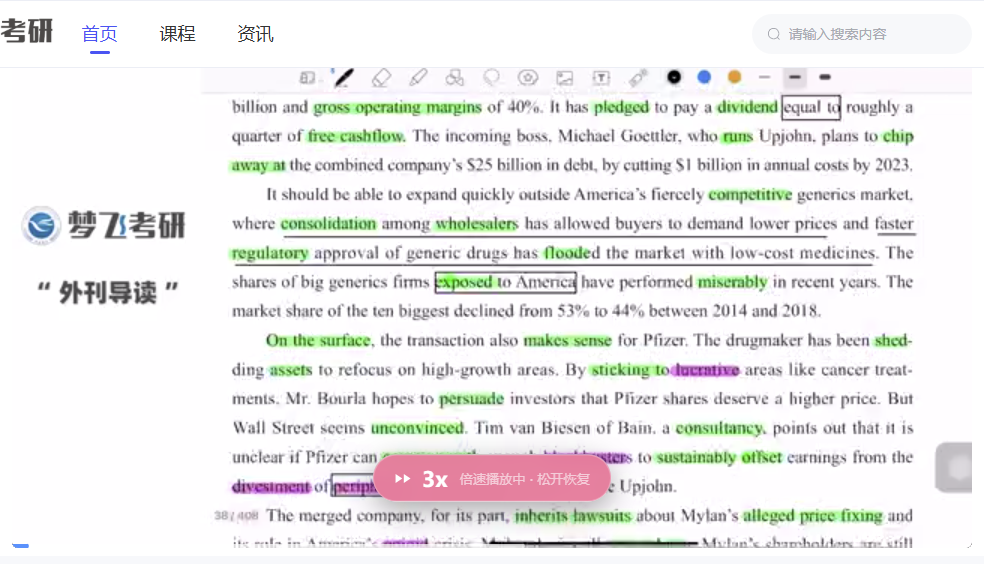
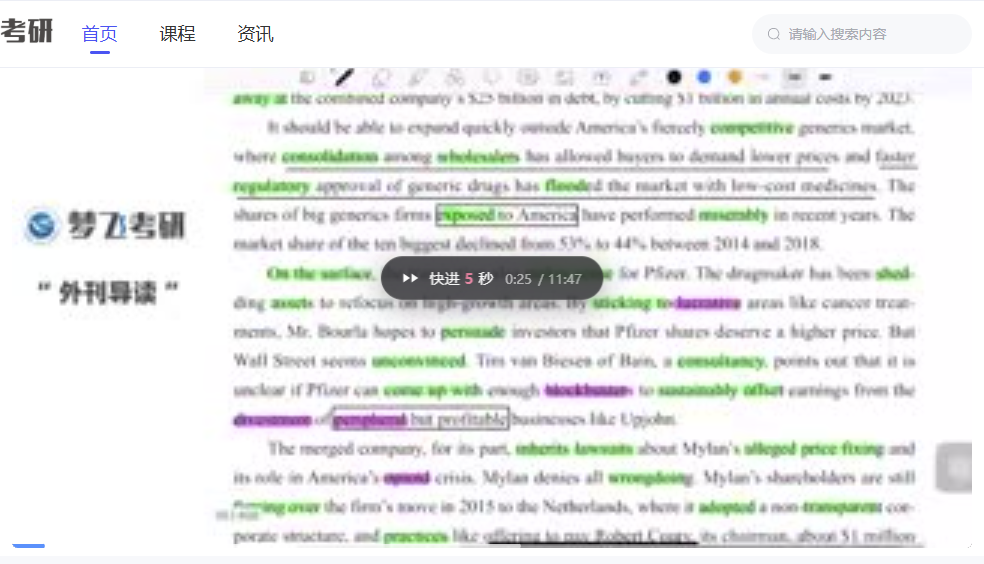
fix: 按住 → 只加速、不再先跳 5 秒（v1.1.1）
问题：按下 → 时立即 seek(+5)，超过长按阈值再进入 3x 倍速，
结果「按住 → 加速」变成了「先跳 5 秒再加速」，与预期不符。

改为短按 / 长按二选一：
- 按下先不跳转，只起一个「长按判定」定时器；
- 到点还没松手 → 长按：→ 进入倍速（全程不跳转），← 连续快退；
- 提前松手 → 短按：在松手那一刻跳 step 秒。

顺带：
- 长按状态显式记录 mode，避免松开时重复跳转
- 倍速记录“是哪个键开的”，倍速期间按另一个方向键会先停掉倍速，
  避免两个方向键抢状态把倍速卡在 3x
- 帮助面板文案改成「轻按：快退/快进 N 秒」「按住 → 3x 倍速快放（不跳转）」
- 测试新增「按住 → 不会先跳 5 秒」与「组合键打断倍速」断言；
  倍速幅度改为和同一时段的 1x 基线对比（避免解码器刚起播时喂帧不足导致的假失败）

diff --git a/ky-bilibili-player.user.js b/ky-bilibili-player.user.js
@@ -1,7 +1,7 @@
 // ==UserScript==
 // @name         研优课(ky.mfedu.cn) B站式播放控制
 // @namespace    https://github.com/ZhuYiXuanNB/bettermfclass
-// @version      1.1.0
+// @version      1.1.1
 // @description  给研优课的课程播放器加上 B 站风格的快捷键：← / → 快退快进、按住 → 倍速播放、↑ / ↓ 音量、空格播放暂停、F 全屏、W 网页全屏。已适配百家云(BPlayer/ffplayer 画布播放)与保利威。
 // @author       ZhuYiXuanNB
 // @match        https://ky.mfedu.cn/*
@@ -42,7 +42,7 @@
   if (window.__mfcPlayerHooked) return;
   window.__mfcPlayerHooked = true;
 
-  const VERSION = '1.1.0';
+  const VERSION = '1.1.1';
   const ACCENT = '#FB7299'; // B 站粉
 
   // ==========================================================================
@@ -748,13 +748,14 @@
   }
 
   // ---- 倍速快放（按住 →）-----------------------------------------------------
-  const boost = { active: false, p: null, rate: 1, baseRate: 1, timer: 0 };
+  const boost = { active: false, p: null, rate: 1, baseRate: 1, timer: 0, key: null };
 
-  function startBoost(p) {
+  function startBoost(p, key) {
     if (!p || boost.active) return;
     if (p.paused() || p.ended()) return;
     boost.active = true;
     boost.p = p;
+    boost.key = key || null;
     boost.rate = clamp(cfg.boostRate, 1.25, cfg.maxRate);
     boost.baseRate = p.rate() || 1;
     p.setRate(boost.rate);
@@ -781,6 +782,7 @@
     clearInterval(boost.timer);
     boost.timer = 0;
     boost.p = null;
+    boost.key = null;
     hideToast('boost');
     if (p) p.setRate(boost.baseRate || 1, { silent: true });
   }
@@ -841,7 +843,7 @@
   // ==========================================================================
   // 六、键盘
   // ==========================================================================
-  const hold = { key: null, timer: 0, repeat: 0 };
+  const hold = { key: null, timer: 0, repeat: 0, mode: null };
 
   // 这些键属于“快进 / 变速”，课程禁止时会被关掉
   const RESTRICTED_KEYS = { ArrowLeft: 1, ArrowRight: 1, Comma: 1, Period: 1 };
@@ -879,7 +881,35 @@
     hold.key = null;
     hold.timer = 0;
     hold.repeat = 0;
+    hold.mode = null;
     stopBoost();
+  }
+
+  /**
+   * 方向键的“短按 / 长按”判定：
+   *   按下时先不跳转，只起一个定时器；
+   *   到点还没松手 => 长按（→ 倍速、← 连续快退），全程不额外跳转；
+   *   提前松手     => 短按，在松手那一刻跳 step 秒。
+   * 这样“按住 → 只加速”才不会被开头那一下 +5 秒污染。
+   */
+  function beginHold(code) {
+    const p = getPlayer();
+    if (!p) return;
+    // 另一个方向键正在倍速 -> 先把它停掉，避免两个键抢状态把倍速卡住
+    if (boost.active) stopBoost();
+    hold.key = code;
+    hold.mode = null;
+    clearTimeout(hold.timer);
+    clearInterval(hold.repeat);
+    hold.timer = setTimeout(() => {
+      if (hold.key !== code) return;
+      const cur = getPlayer();
+      if (!cur) return;
+      hold.mode = 'hold';
+      const forward = code === 'ArrowRight';
+      if (forward && !cur.paused() && !cur.ended()) startBoost(cur, code); // 播放中按住 →：只加速
+      else startRepeatSeek(cur, forward ? cfg.seekStep : -cfg.seekStep); // ← 或暂停中：连续快进/快退
+    }, cfg.holdDelay);
   }
 
   function startRepeatSeek(p, delta) {
@@ -973,30 +1003,13 @@
       case 'ArrowRight': {
         eat();
         if (repeat) return;
-        // 单击 = 快进一小段
-        seekBy(p, cfg.seekStep);
-        hold.key = 'ArrowRight';
-        clearTimeout(hold.timer);
-        hold.timer = setTimeout(() => {
-          if (hold.key !== 'ArrowRight') return;
-          const cur = getPlayer();
-          if (!cur) return;
-          if (!cur.paused() && !cur.ended()) startBoost(cur); // 播放中：按住 = 倍速
-          else startRepeatSeek(cur, cfg.seekStep);            // 暂停中：按住 = 连续快进
-        }, cfg.holdDelay);
+        beginHold('ArrowRight');
         return;
       }
       case 'ArrowLeft': {
         eat();
         if (repeat) return;
-        seekBy(p, -cfg.seekStep);
-        hold.key = 'ArrowLeft';
-        clearTimeout(hold.timer);
-        hold.timer = setTimeout(() => {
-          if (hold.key !== 'ArrowLeft') return;
-          const cur = getPlayer();
-          if (cur) startRepeatSeek(cur, -cfg.seekStep);
-        }, cfg.holdDelay);
+        beginHold('ArrowLeft');
         return;
       }
       case 'ArrowUp': {
@@ -1062,8 +1075,23 @@
   }
 
   function onKeyUp(e) {
-    delete pressedKeys[e.code];
-    if ((e.code === 'ArrowRight' || e.code === 'ArrowLeft') && hold.key === e.code) clearHold();
+    const code = e.code;
+    delete pressedKeys[code];
+    if (code !== 'ArrowRight' && code !== 'ArrowLeft') return;
+
+    // 这个键开启的倍速：哪怕 hold 状态被另一个键顶掉，也要在它松开时停掉
+    if (boost.active && boost.key === code) {
+      clearHold();
+      return;
+    }
+    if (hold.key !== code) return;
+
+    const wasTap = hold.mode === null; // 没进入长按 => 短按
+    const p = getPlayer();
+    clearHold();
+    if (!wasTap || !p) return;
+
+    seekBy(p, code === 'ArrowRight' ? cfg.seekStep : -cfg.seekStep); // 里面带提示浮层
   }
 
   // ==========================================================================
@@ -1109,8 +1137,8 @@
           <span class="mfc-x" title="关闭">✕</span></h4>
         <dl class="mfc-help-dl">
           <dt><kbd>空格</kbd><kbd>K</kbd></dt><dd>播放 / 暂停</dd>
-          <dt><kbd>←</kbd><kbd>→</kbd></dt><dd>快退 / 快进 ${cfg.seekStep} 秒</dd>
-          <dt>按住 <kbd>→</kbd></dt><dd><b style="color:${ACCENT}">${cfg.boostRate}x</b> 倍速快放，松开即恢复</dd>
+          <dt><kbd>←</kbd><kbd>→</kbd></dt><dd>轻按：快退 / 快进 ${cfg.seekStep} 秒</dd>
+          <dt>按住 <kbd>→</kbd></dt><dd><b style="color:${ACCENT}">${cfg.boostRate}x</b> 倍速快放（不跳转），松开即恢复</dd>
           <dt>按住 <kbd>←</kbd></dt><dd>连续快退</dd>
           <dt><kbd>↑</kbd><kbd>↓</kbd></dt><dd>音量加减（每次 ${Math.round(cfg.volumeStep * 100)}%）</dd>
           <dt><kbd>M</kbd></dt><dd>静音 / 取消静音</dd>
